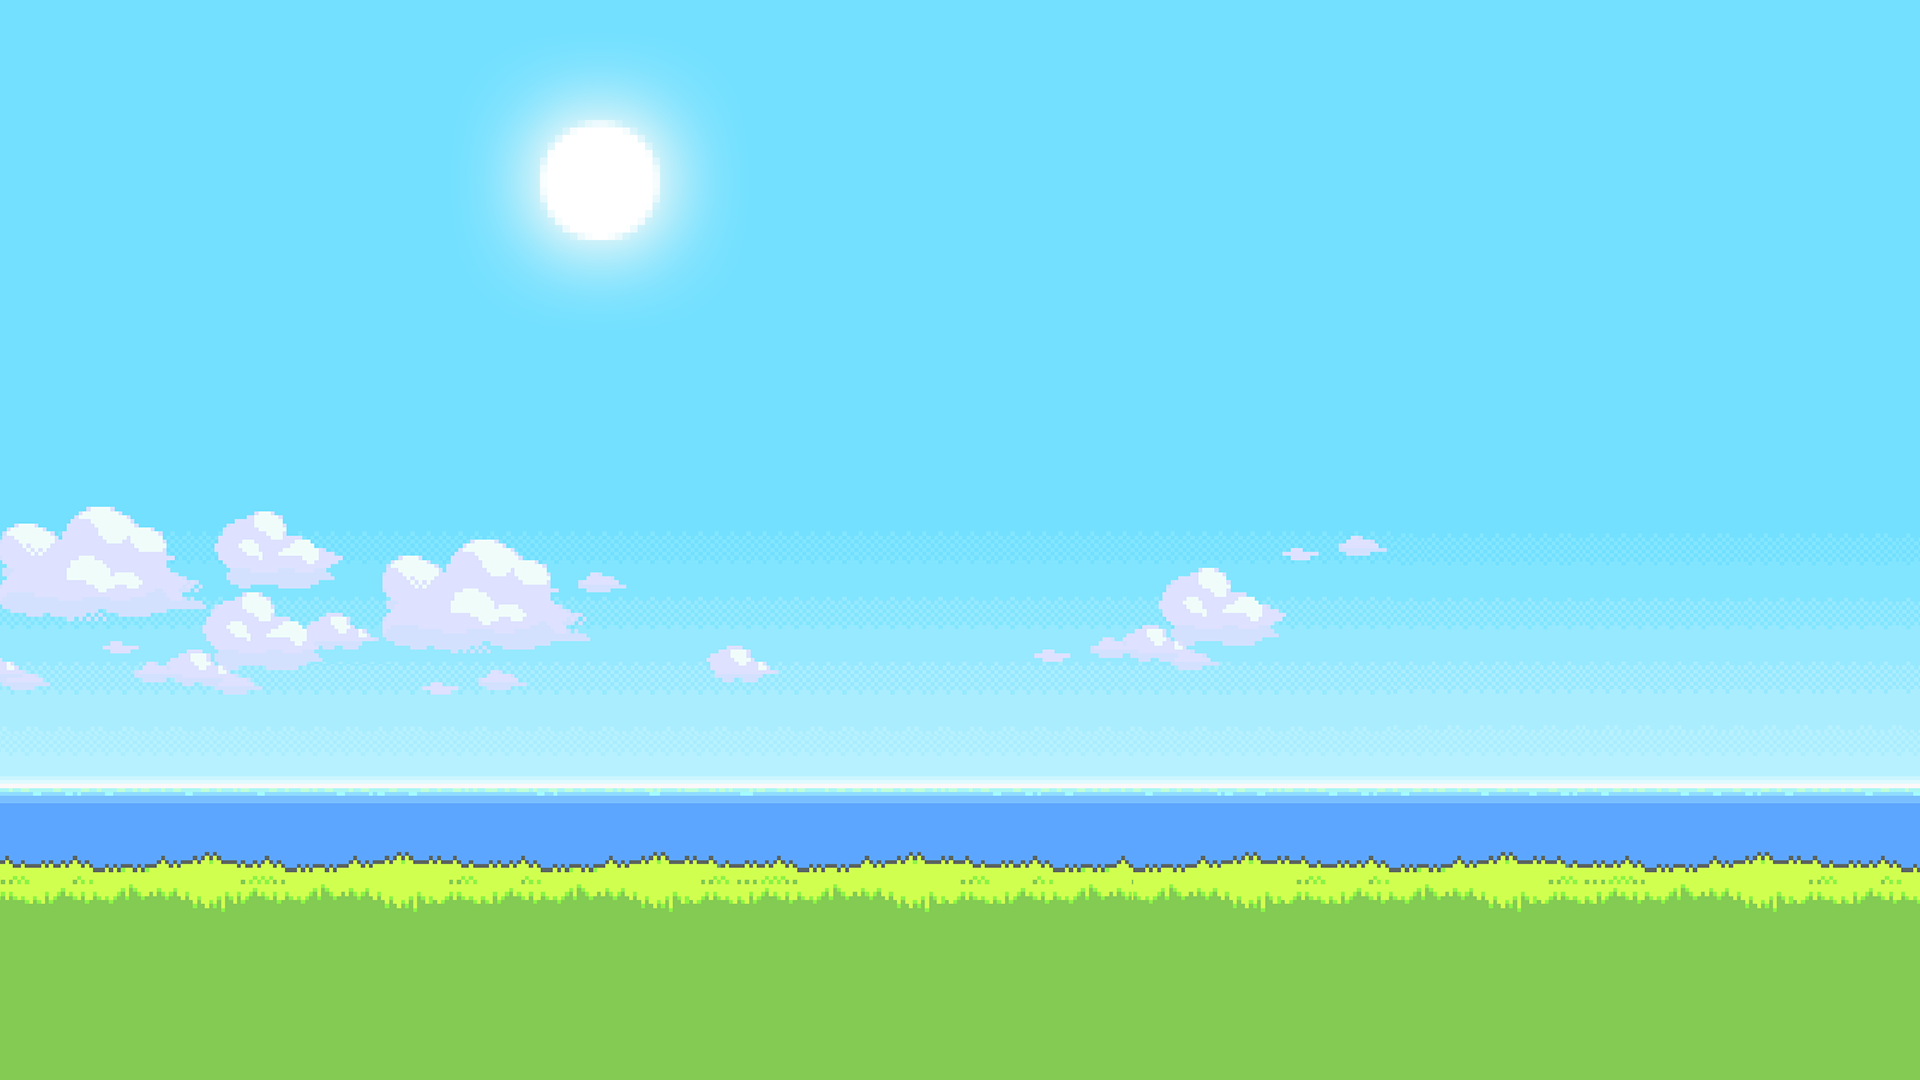
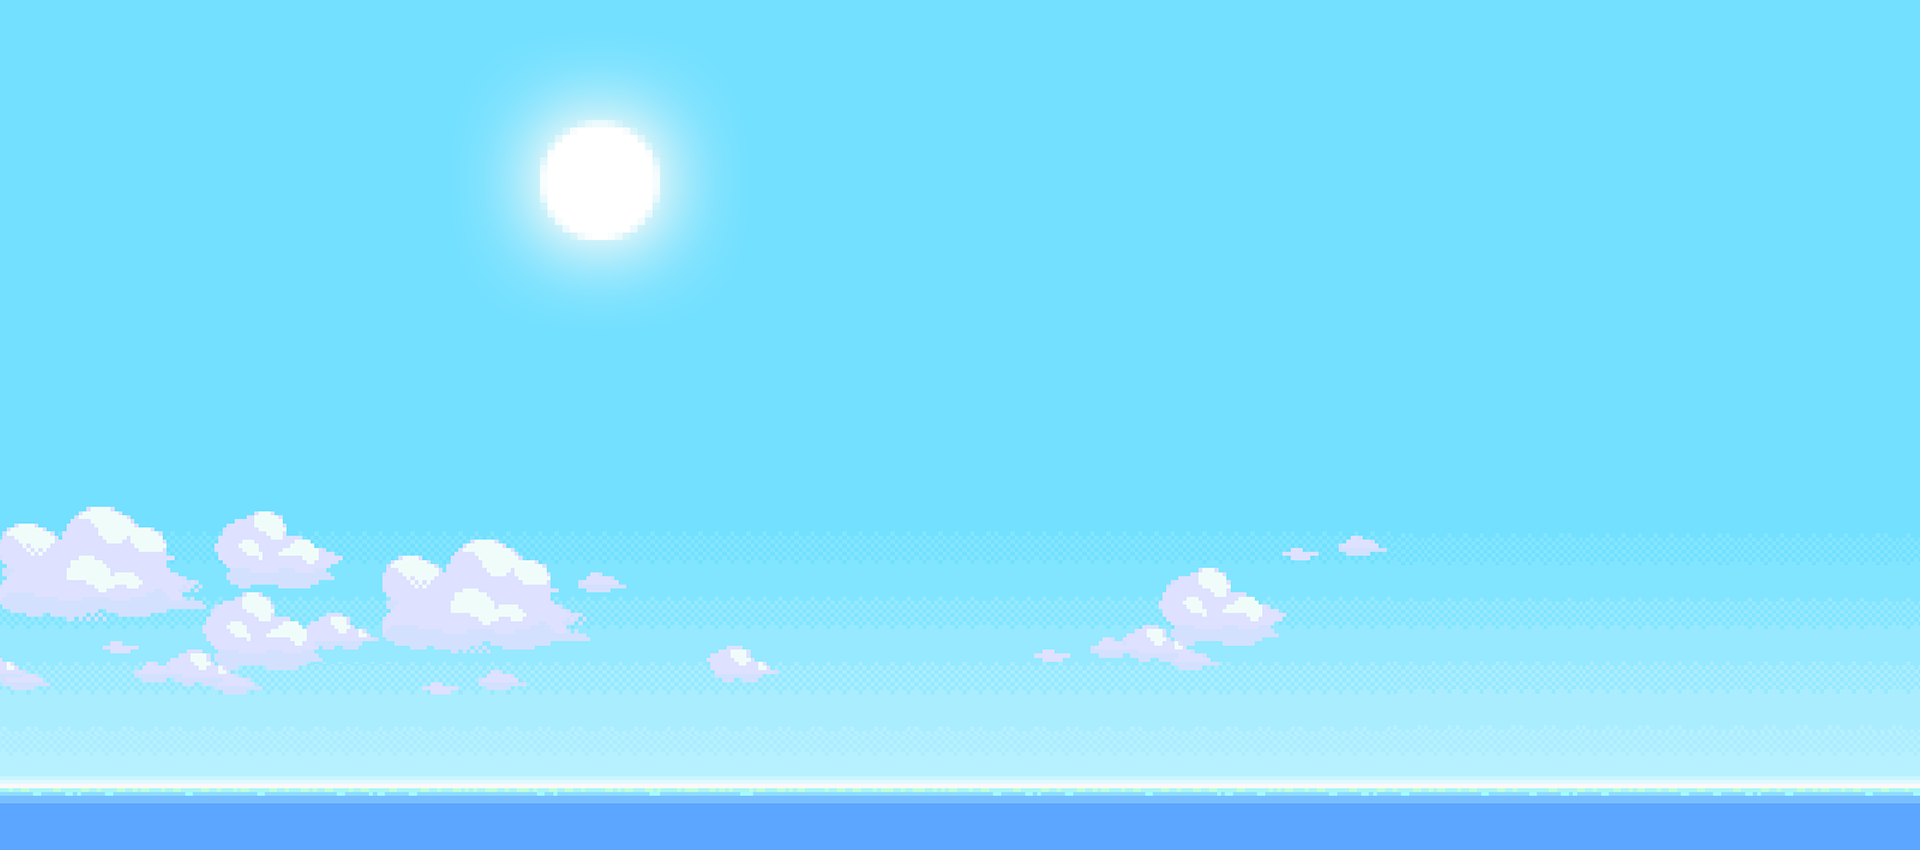
change pipe position and modify ground images

diff --git a/FlappyBird/GameScene.swift b/FlappyBird/GameScene.swift
@@ -14,7 +14,7 @@ class GameScene: SKScene {
     var pipeUpTexture = SKTexture()
     var pipeDownTexture = SKTexture()
     var PipeMoveAndRemove = SKAction()
-    let pipeGap = 150.0
+    let pipeGap = 110.0
     
     
     override func didMoveToView(view: SKView) {
@@ -30,22 +30,33 @@ class GameScene: SKScene {
         
         
         // ground image
-        let groundTexture = SKTexture(imageNamed: "background")
+        let groundTexture = SKTexture(imageNamed: "ground")
         groundTexture.filteringMode = SKTextureFilteringMode.Nearest
         
-        var groundImage = SKSpriteNode()
-        groundImage = SKSpriteNode(texture: groundTexture)
-        groundImage.setScale(0.8)
-        groundImage.position = CGPoint(x: self.size.width / 2, y: groundImage.size.height / 2)
+        let groundImage = SKSpriteNode(texture: groundTexture)
+        groundImage.setScale(2)
+        groundImage.position = CGPointMake(groundImage.size.width / 1.2, groundImage.size.height / 2)
         self.addChild(groundImage)
         
         
         // ground physical body
         let groundBody = SKNode()
         groundBody.position = CGPointMake(0, 0)
-        groundBody.physicsBody = SKPhysicsBody(rectangleOfSize: CGSizeMake(self.frame.size.width, self.frame.size.height * 0.44))
+        groundBody.physicsBody = SKPhysicsBody(rectangleOfSize: CGSizeMake(self.frame.size.width, groundImage.size.height * 2))
         groundBody.physicsBody?.dynamic = false
         self.addChild(groundBody)
+        
+        
+        
+        // background image
+        let backgroundTexture = SKTexture(imageNamed: "background")
+        backgroundTexture.filteringMode = SKTextureFilteringMode.Nearest
+        
+        let backgroundImage = SKSpriteNode(texture: backgroundTexture)
+        backgroundImage.setScale(1)
+        backgroundImage.position = CGPointMake(self.frame.size.width, groundImage.size.height / 2 + backgroundImage.size.height / 1.5 - 50)
+        backgroundImage.zPosition = -10
+        self.addChild(backgroundImage)
         
         // bird
         let birdTexture = SKTexture(imageNamed: "dogeicon")
@@ -64,8 +75,8 @@ class GameScene: SKScene {
         
         
         // pipe
-        pipeUpTexture = SKTexture(imageNamed: "pipeUp")
-        pipeDownTexture = SKTexture(imageNamed: "pipeDown")
+        pipeUpTexture = SKTexture(imageNamed: "PipeUp")
+        pipeDownTexture = SKTexture(imageNamed: "PipeDown")
         
         
         
@@ -96,14 +107,14 @@ class GameScene: SKScene {
         
         let pipePair = SKNode()
         pipePair.position = CGPointMake(self.frame.size.width + pipeUpTexture.size().width, 0)
-        //pipePair.zPosition = -10
+        pipePair.zPosition = -5
         
         let height = UInt32(self.frame.size.height / 4)
         //let y = arc4random() % height + height
         
         let pipeDown = SKSpriteNode(texture: pipeDownTexture)
         pipeDown.setScale(1)
-        pipeDown.position = CGPointMake(0.0, pipeDown.size.height + CGFloat(pipeGap))
+        pipeDown.position = CGPointMake(0.0, self.frame.size.height / 1.1)
         
         pipeDown.physicsBody = SKPhysicsBody(rectangleOfSize: pipeDown.size)
         pipeDown.physicsBody?.dynamic = false
@@ -111,7 +122,7 @@ class GameScene: SKScene {
         
         let pipeUp = SKSpriteNode(texture: pipeUpTexture)
         pipeUp.setScale(1)
-        pipeUp.position = CGPointMake(0.0, self.frame.size.height)
+        pipeUp.position = CGPointMake(0.0, CGFloat(pipeGap) + pipeUp.size.height)
         
         pipeUp.physicsBody = SKPhysicsBody(rectangleOfSize: pipeUp.size)
         pipeUp.physicsBody?.dynamic = false
